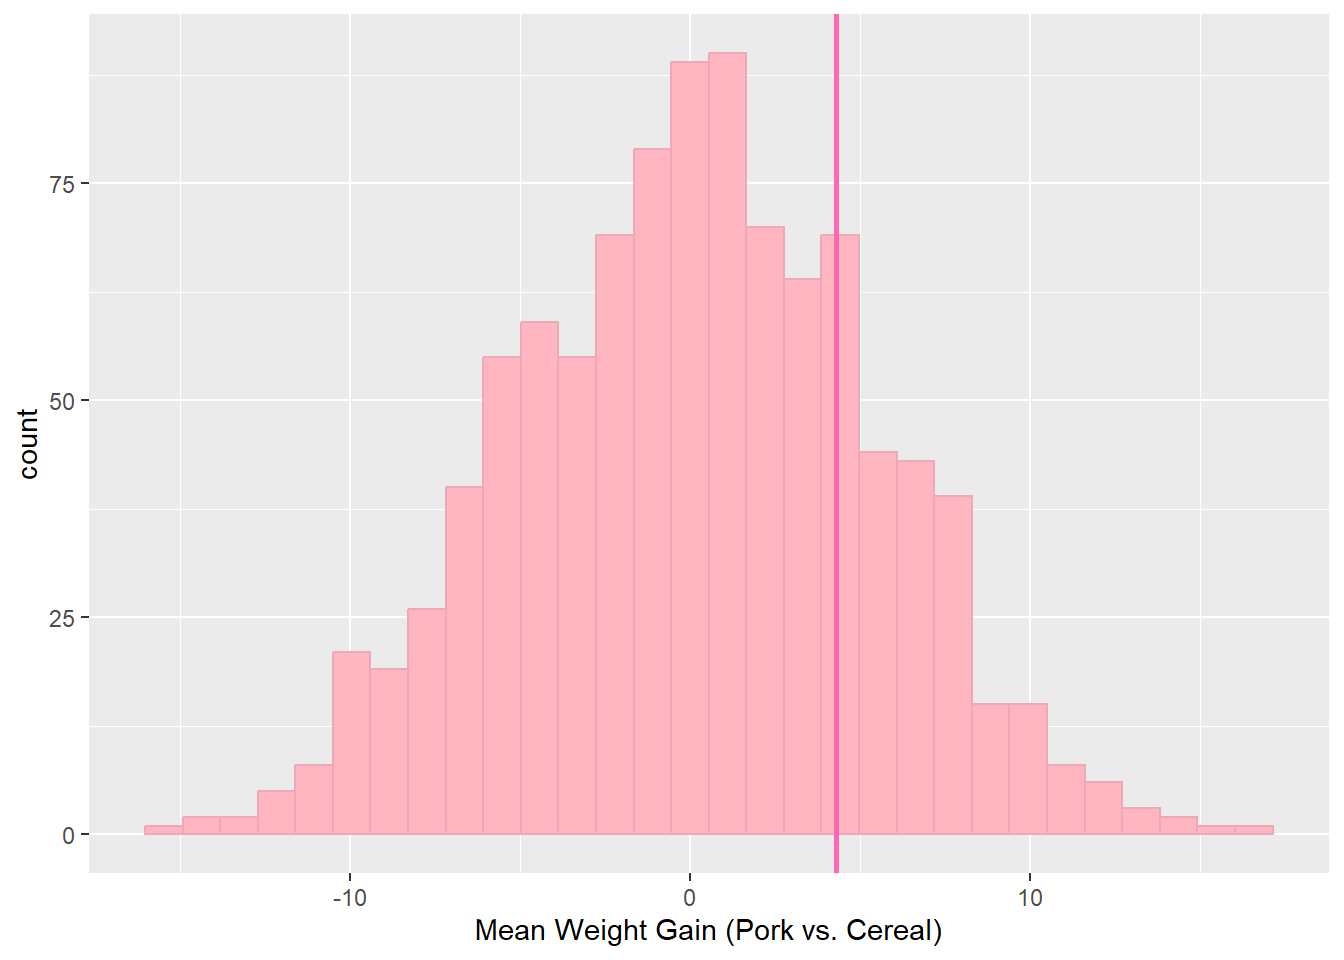
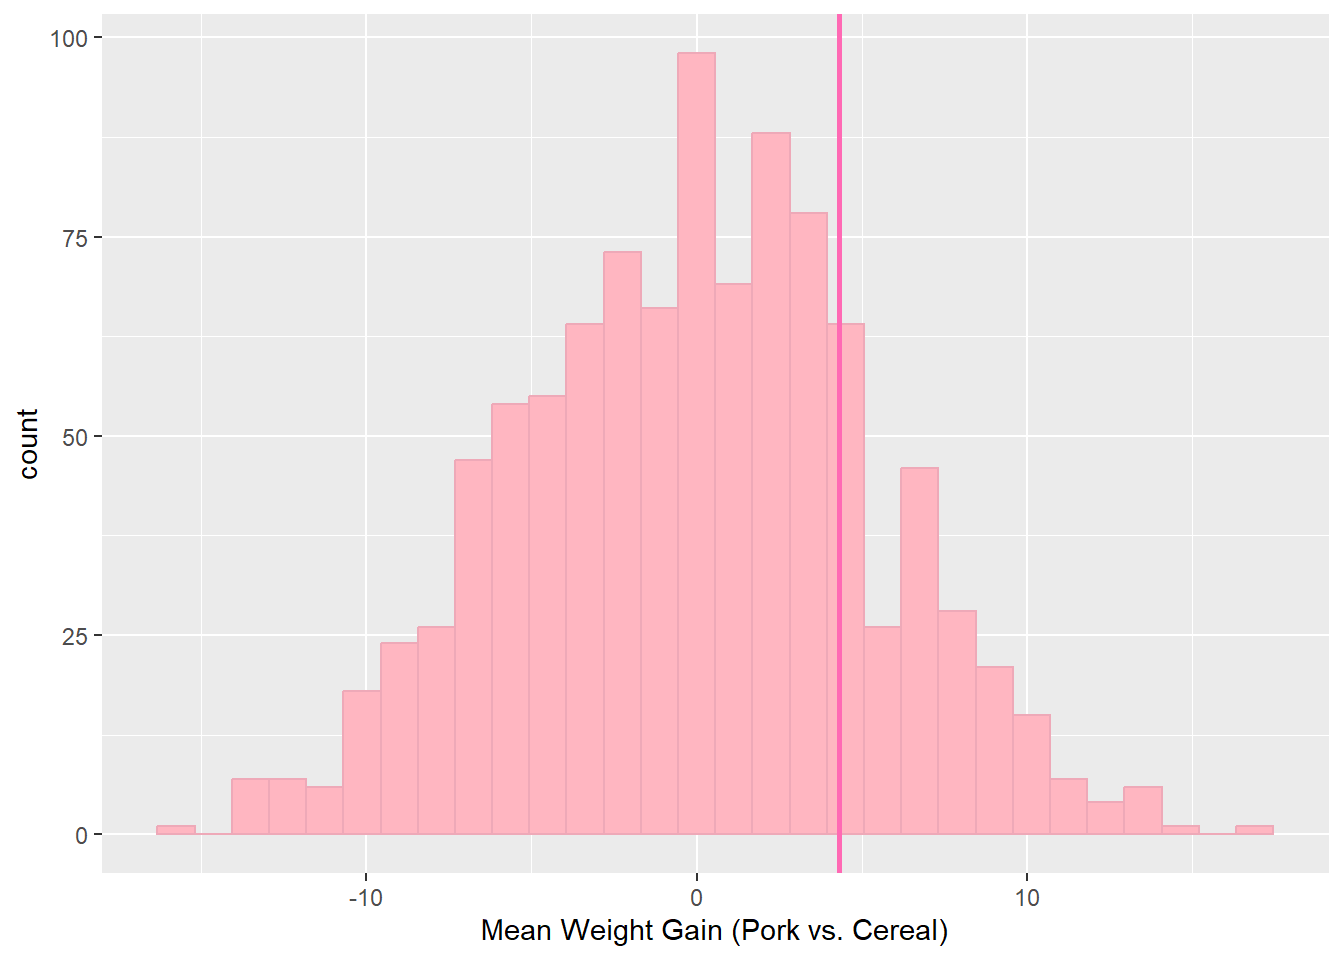
RATS!!!

diff --git a/docs/mini_project2.html b/docs/mini_project2.html
@@ -124,7 +124,7 @@ ul.task-list li input[type="checkbox"] {
     <h2 id="toc-title">On this page</h2>
    
   <ul>
-  <li><a href="#fat-rats" id="toc-fat-rats" class="nav-link active" data-scroll-target="#fat-rats">Fat Rats!</a></li>
+  <li><a href="#fat-rats" id="toc-fat-rats" class="nav-link active" data-scroll-target="#fat-rats">Fat Rats! <img src="images/FP_5427726_BARM_Rats_071810.webp" class="img-fluid"></a></li>
   </ul>
 </nav>
     </div>
@@ -149,7 +149,7 @@ ul.task-list li input[type="checkbox"] {
 </header>
 
 <section id="fat-rats" class="level3">
-<h3 class="anchored" data-anchor-id="fat-rats">Fat Rats!</h3>
+<h3 class="anchored" data-anchor-id="fat-rats">Fat Rats! <img src="images/FP_5427726_BARM_Rats_071810.webp" class="img-fluid"></h3>
 <p>For this project, I examined the dataset FatRats, which has data from an experiment on the effects of diet on the weight gain of rats. The study had 60 baby rat participants, which were split up into groups and fed different sources of protein(Beef, Cereal, and Pork). The resulting dataset shows the weight gain for each rat from their protein source.</p>
 <p>I decided to conduct a randomization-type test by simulating the behavior under the null hypothesis. I wanted to see if the results of the study would be significant. I did this by running simulations of the study and randomizing the protein source to see if a random test would produce significantly different responses than the experiment did.</p>
 <p>The following graphs show the difference in average weight gains between different proteins with the randomized test, which shows what might happen if protein had no effect. The hot pink vertical line shows the average weight gain from the study that was run. The p-values below each chart show the probability under the null hypothesis(our randomized experiment) of obtaining a test statistic at least as extreme as the one obtained. The p-values are calculated by looking at how many of the randomized statistics are greater than or equal to the observed statistics from the rat study.</p>
@@ -164,13 +164,13 @@ ul.task-list li input[type="checkbox"] {
 <p><img src="mini_project2_files/figure-html/unnamed-chunk-3-2.png" class="img-fluid" width="672"></p>
 </div>
 <div class="cell-output cell-output-stdout">
-<pre><code>Beef vs. Cereal p-value: 0.299 </code></pre>
+<pre><code>Beef vs. Cereal p-value: 0.281 </code></pre>
 </div>
 <div class="cell-output-display">
 <p><img src="mini_project2_files/figure-html/unnamed-chunk-3-3.png" class="img-fluid" width="672"></p>
 </div>
 <div class="cell-output cell-output-stdout">
-<pre><code>Pork vs. Cereal p-value: 0.292 </code></pre>
+<pre><code>Pork vs. Cereal p-value: 0.279 </code></pre>
 </div>
 </div>
 <p>As we can see, all of the p-values are close to 0.3. Generally, if the p-value is less than 0.05, we will consider the results of the study statistically significant. Because these results are well over the point of statistical significance, we can fail to reject the null hypothesis and claim that the difference in weight gains due to different proteins is not statistically significant.</p>
